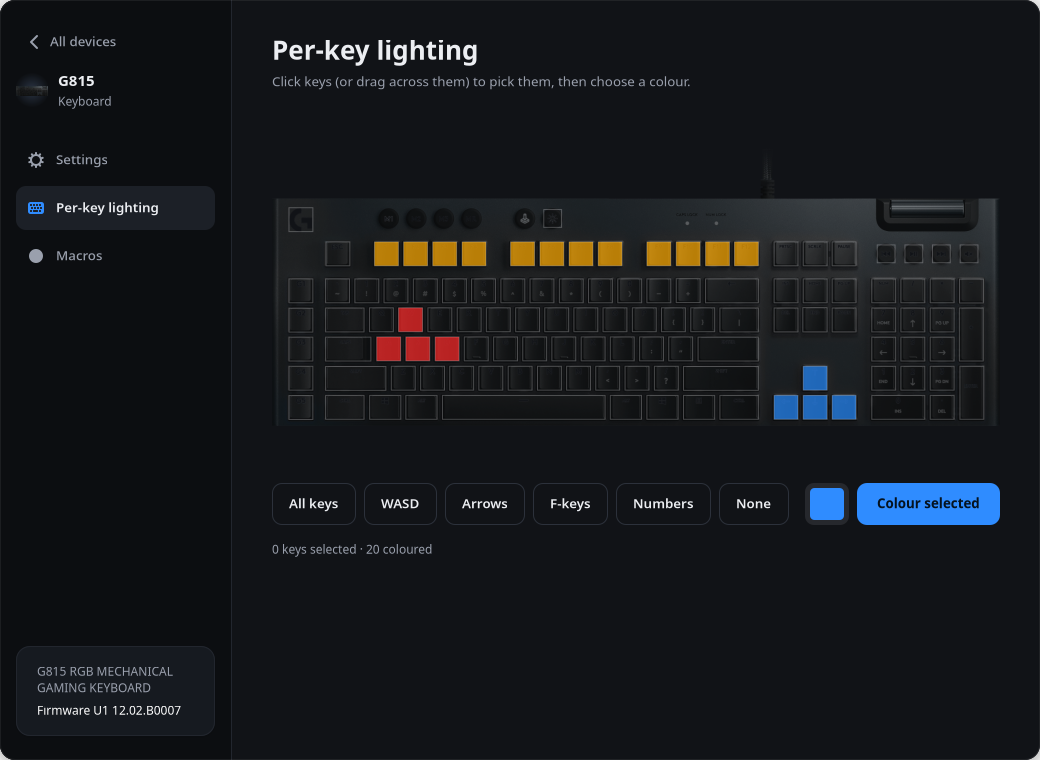
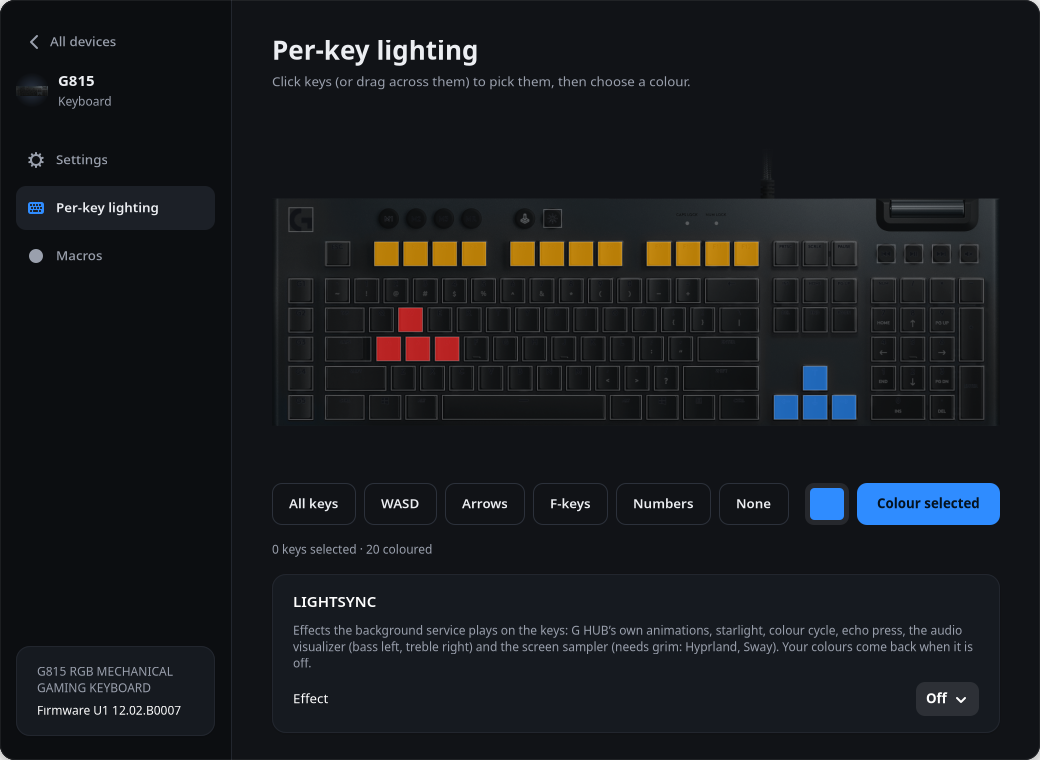
Per-key: one message for keys sharing a colour (0x8081 fn 6)
G HUB's SetRgbZonesSingleValue: [r, g, b, up to 13 zone ids]; cuts the
messages per effect frame. TODO progress and per-key screenshot updated.

Claude-Session: https://claude.ai/code/session_01YM4ymSrNn6ziqWrhZWUPKR

Changed region(s): [[0.2769, 0.7868, 0.9538, 0.9684], [0.2769, 0.9079, 0.3077, 0.9382]]

diff --git a/perkey.py b/perkey.py
@@ -48,8 +48,11 @@ def save_colors(model, colors):
 
 PERKEY = 0x8081
 PERKEY_V1 = 0x8080
-SET_INDIVIDUAL, FRAME_END = 1, 7
+SET_INDIVIDUAL, SET_SINGLE_VALUE, FRAME_END = 1, 6, 7
 PER_REPORT = 4
+# G HUB's SetRgbZonesSingleValue (fn 6): [r, g, b, zone ids...], one colour for up to 13 zones; a
+# colour shared by this many keys or more goes that way (ours)
+SINGLE_MAX, SINGLE_FROM = 13, 4
 
 # G HUB's PerKey.Type values (lighting_support.proto)
 KEYBOARD, CONSUMER, GKEY, BRANDING, INDICATOR = 1, 2, 4, 16, 32
@@ -131,7 +134,17 @@ def apply(dev, colors, persist=True):
 	"""Send the colours and end the frame. persist is G HUB's FrameEnd persistence flag."""
 	if not dev.has(PERKEY) and dev.has(PERKEY_V1):
 		return apply_v1(dev, colors, persist)
-	entries = zones(colors)
+	by_color = {}
+	for e in zones(colors):
+		by_color.setdefault(tuple(e[1:]), []).append(e)
+	entries = []
+	for rgb, group in by_color.items():
+		if len(group) < SINGLE_FROM:
+			entries += group
+			continue
+		ids = [e[0] for e in group]
+		for i in range(0, len(ids), SINGLE_MAX):
+			dev.call(PERKEY, SET_SINGLE_VALUE, bytes(rgb) + bytes(ids[i:i + SINGLE_MAX]))
 	for i in range(0, len(entries), PER_REPORT):
 		batch = entries[i:i + PER_REPORT]
 		reply = dev.call(PERKEY, SET_INDIVIDUAL, b''.join(bytes(e) for e in batch))

diff --git a/tests/test_wireless_keyboard.py b/tests/test_wireless_keyboard.py
@@ -179,6 +179,18 @@ class GameModeV1Test(unittest.TestCase):
 		self.assertEqual(fake.disabled, 0x11)
 
 
+class SingleValueTest(unittest.TestCase):
+	def test_shared_colour_in_one_go(self):
+		fake = simulate.FakeKeyboard()
+		dev = hidpp.Device(fake)
+		colors = {f'PERKEY_KEYBOARD:{k}': [10, 20, 30] for k in range(4, 30)}
+		colors['PERKEY_KEYBOARD:30'] = [1, 2, 3]
+		perkey.apply(dev, colors, persist=False)
+		self.assertEqual(fake.calls, 2)                               # 26 keys, 13 per message
+		self.assertEqual(len(fake.keys), 27)
+		self.assertIn((1, 2, 3), fake.keys.values())
+
+
 class PerKeyV1Test(unittest.TestCase):
 	def test_apply_8080(self):
 		kb = simulate.FakeKeyboardV1()

diff --git a/simulate.py b/simulate.py
@@ -353,6 +353,12 @@ class FakeKeyboard(FakeMouse):
 				if p[i]:
 					self.pending[p[i]] = tuple(p[i + 1:i + 4])
 			return bytes(p[:16])
+		if fn == 6:   # SetRgbZonesSingleValue: r, g, b, then zone ids
+			for zone in p[3:16]:
+				if zone:
+					self.pending[zone] = tuple(p[:3])
+			self.calls = getattr(self, 'calls', 0) + 1
+			return b''
 		if fn == 7:   # FrameEnd
 			self.keys.update(self.pending)
 			self.pending = {}

diff --git a/TODO.md b/TODO.md
@@ -4,7 +4,7 @@ Only what is still open. What works is in the README; how things were found is i
 comments. Checked against the device features G HUB's agent knows (its 212 `Feature####`
 classes, G HUB 2026.6) and its app features.
 
-## Progress (overall about 80%)
+## Progress (overall about 82%)
 
 The percentages are rough estimates of how much of each area's G HUB features Lghub has, not
 measurements.
@@ -15,13 +15,13 @@ measurements.
 | Blue VO!CE 2 (Yetis, G735) | 95% | check against Logitech's APO under Wine; check on a mic |
 | Surround, equalizer | 100% | check on the G Pro X |
 | PRO 5-band equalizer | 20% | runs on the headset's Conexant chip (see below); needs the G Pro X |
-| Mice | 90% | see "Mice" below |
+| Mice | 92% | see "Mice" below |
 | Keyboards | 78% | see "Keyboards" below |
 | Headsets (other than the voice chain) | 55% | see "Headsets" below |
 | Yeti controls | 100% | check on a Yeti |
 | Webcams | 90% | check on the C920 |
 | Wireless (receivers, power) | 75% | see "Wireless and power" below |
-| Lighting | 92% | screen sampler on GNOME / KDE; per-key on mice |
+| Lighting | 95% | screen sampler on GNOME / KDE; per-key on mice |
 | App features | 75% | see "App" below |
 | Background service | 90% | re-measure CPU and memory with the current version installed |
 
@@ -146,7 +146,9 @@ G HUB sets 5 band gains (+-12 dB) on the headset's own Conexant chip through
   and Echo press (key presses read from the keyboard's own reports: ours) with G HUB's settings.
   Not yet: Smooth star / wave and G HUB's
   other "signature" effects, the keyframe editor (Freestyle). Effects on zonal devices done
-  (starlight, colour cycle, audio, screen sampler with G HUB's zone regions).
+  (starlight, colour cycle, audio, screen sampler with G HUB's zone regions). Per-key frames use
+  G HUB's single-value call for shared colours; its delta-compressed calls (0x8081 fn 3 / 4) aren't
+  used yet: check animation smoothness on a real keyboard first.
 
 ### App
 - Low-battery notifications done (G HUB's LOW 30 % / CRITICAL 15 %; checking every 5 minutes is
